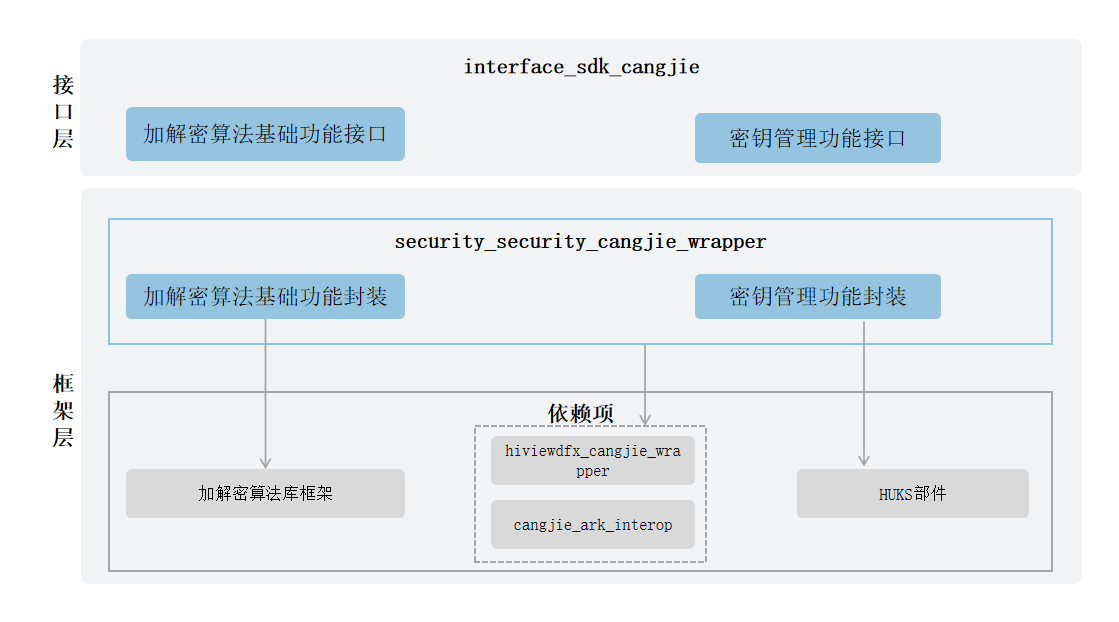
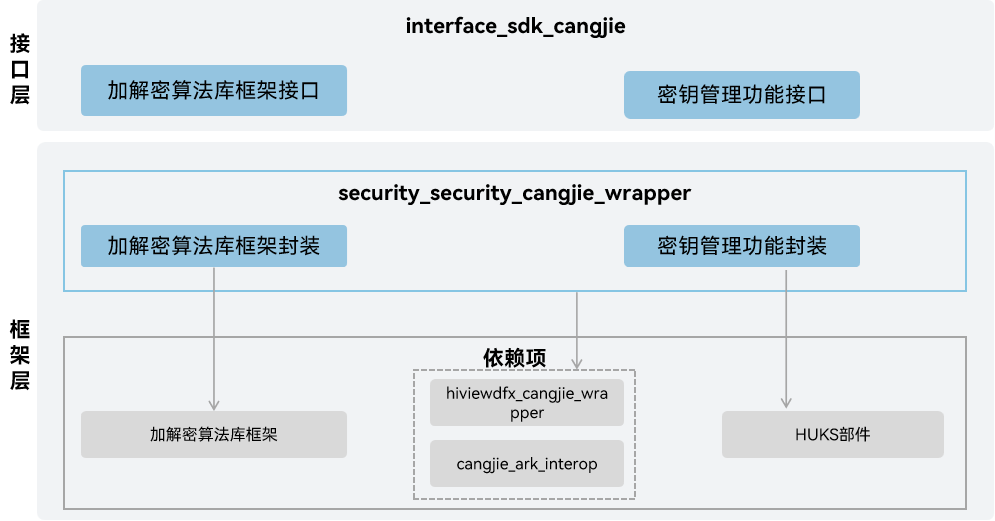
update README

diff --git a/README_zh.md b/README_zh.md
@@ -2,7 +2,7 @@
 
 ## 简介
 
-安全基础能力仓颉封装包括系统安全、数据安全、应用安全等功能，为OpenHarmony提供有效保护应用和用户数据的能力。当前支持的功能包括加解密算法基础功能、密钥管理功能且仅支持standard设备。
+安全基础能力仓颉封装为实现系统安全、数据安全、应用安全领域提供核心支撑，提供有效保护OpenHarmony应用和用户数据的能力。当前支持的功能包括加解密算法库框架功能和密钥管理功能，相关功能仅支持standard设备。
 
 ## 系统架构
 
@@ -12,12 +12,17 @@
 
 接口层：
 
-- 加解密算法基础功能：加解密算法基础功能主要是为了屏蔽底层硬件和算法库，向上提供统一的密码算法库加解密相关接口。它的主要功能提供密码操作、秘钥材料和生成器、密码加解密、签名验签、安全随机数等相关功能。开发者可以通过使用该功能，忽略底层不同三方算法库的差异，实现迅捷开发。
-- 密钥管理功能：密钥管理功能主要是为了向上层应用提供一套完整、统一、安全的密钥生命周期管理接口，屏蔽不同硬件安全模块和底层密钥管理服务的实现差异。它的主要功能包括：密钥生成与派生、密钥存储、密钥导入、销毁等一系列关键操作。开发者通过调用该功能，可以忽略底层不同密钥存储介质的复杂细节和安全策略差异，确保密钥材料的机密性、完整性和可用性，从而实现安全、可靠、高效的业务开发。
+- 加解密算法库框架接口：加解密算法库框架接口主要是为了屏蔽底层硬件和算法库，向上提供统一的密码算法库加解密相关接口。它的主要功能提供密码操作、密钥材料和生成器、密码加解密、安全随机数等相关功能。开发者可以通过使用该功能，忽略底层不同三方算法库的差异，实现迅捷开发。
+- 密钥管理功能：密钥管理功能主要是为了向上层应用提供一套完整、统一、安全的密钥生命周期管理接口。
+  - 完整性：包括密钥生成与派生、密钥存储、密钥导入、销毁等一系列关键操作，支持密钥管理的主要功能。
+  - 统一性：密码学操作均使用统一的接口进行管理，屏蔽不同硬件安全模块和底层密钥管理服务的实现差异。
+  - 安全性：底层使用TEE提供的可信环境，用户态无法获得密钥数据，即便内核受到威胁，也能确保密钥不被泄露。
+
+  开发者通过调用该功能，可以忽略底层不同密钥存储介质的复杂细节和安全策略差异，确保密钥材料的机密性、完整性和可用性，从而实现安全、可靠、高效的业务开发。
 
 框架层：
 
-- 加解密算法基础功能封装：仓颉加解密算法基础功能的实现封装，提供加解密算法基础功能。
+- 加解密算法库框架封装：仓颉加解密算法基础功能的实现封装，提供加解密算法基础功能。
 - 密钥管理功能封装：仓颉密钥管理功能的实现封装，提供密钥管理功能。
 
 架构图中的依赖部件引入说明：
@@ -49,20 +54,28 @@ base/security/security_cangjie_wrapper
 
 当前安全基础能力仓颉封装提供了以下功能：
 
-- 加解密算法基础功能
+- 加解密算法库框架功能
 - 密钥管理功能
 
-安全基础能力相关API请参见[密钥管理能力](https://gitcode.com/openharmony-sig/arkcompiler_cangjie_ark_interop/blob/master/doc/API_Reference/source_zh_cn/apis/UniversalKeystoreKit/cj-apis-security_huks.md)，[加解密算法库框架](https://gitcode.com/openharmony-sig/arkcompiler_cangjie_ark_interop/blob/master/doc/API_Reference/source_zh_cn/apis/CryptoArchitectureKit/cj-apis-crypto.md)，相关指导请参见[加解密算法库开发指南](https://gitcode.com/openharmony-sig/arkcompiler_cangjie_ark_interop/blob/master/doc/Dev_Guide/source_zh_cn/security/CryptoArchitectureKit/cj-crypto-architecture-kit-intro.md)以及[密钥管理能力](https://gitcode.com/openharmony-sig/arkcompiler_cangjie_ark_interop/blob/master/doc/Dev_Guide/source_zh_cn/security/UniversalKeystoreKit/cj-huks-overview.md)。
+安全基础能力相关API请参见[加解密算法库框架](https://gitcode.com/openharmony-sig/arkcompiler_cangjie_ark_interop/blob/master/doc/API_Reference/source_zh_cn/apis/CryptoArchitectureKit/cj-apis-crypto.md)，[密钥管理功能](https://gitcode.com/openharmony-sig/arkcompiler_cangjie_ark_interop/blob/master/doc/API_Reference/source_zh_cn/apis/UniversalKeystoreKit/cj-apis-security_huks.md)，相关指导请参见[加解密算法库开发指南](https://gitcode.com/openharmony-sig/arkcompiler_cangjie_ark_interop/blob/master/doc/Dev_Guide/source_zh_cn/security/CryptoArchitectureKit/cj-crypto-architecture-kit-intro.md)以及[密钥管理功能](https://gitcode.com/openharmony-sig/arkcompiler_cangjie_ark_interop/blob/master/doc/Dev_Guide/source_zh_cn/security/UniversalKeystoreKit/cj-huks-overview.md)。
 
 ## 约束
 
 与ArkTS提供的API能力相比：
 
-- 密钥管理暂不支持以下功能：
-  - 程序访问控制功能
-  - 用户认证
+- 加解密算法库框架暂不支持以下功能：
+  - 非对称加密算法相关功能。
+  - 签名验签。
+  - 密钥协商。
+  - 密钥派生。
 
-- 暂不支持证书算法框架、证书管理功能。
+- 密钥管理功能暂不支持以下功能：
+  - 获取密钥证书。
+  - 加密导入/导出密钥。
+  - 判断密钥是否存在。
+  - 查询密钥别名集。
+
+- 暂不支持关键资产存储服务、数据保护服务、设备安全服务、企业数据保护服务、在线认证服务、设备证书服务、用户认证服务功能。
 
 ## 参与贡献
 
